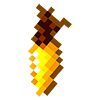
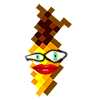
add face for normal carrot

Changed region(s): [[0.24, 0.48, 0.69, 0.75]]

diff --git a/level1.py b/level1.py
@@ -10,7 +10,7 @@ def game_process_level_1(screen):
     tile_width, tile_height = 100, 100
     clock = pygame.time.Clock()
     pygame.display.set_caption("Little Carrot")
-    programIcon = pygame.image.load('data/world_design/characters/gold_carrot.png')
+    programIcon = pygame.image.load('data/world_design/characters/gold_carrot_ok.png')
     pygame.display.set_icon(programIcon)
 
     max_x = 9

diff --git a/level2.py b/level2.py
@@ -13,7 +13,7 @@ def game_process_level_2(screen):
     FPS = 60
     tile_width, tile_height = 100, 100
     clock = pygame.time.Clock()
-    programIcon = pygame.image.load('data/world_design/characters/gold_carrot.png')
+    programIcon = pygame.image.load('data/world_design/characters/gold_carrot_ok.png')
     pygame.display.set_icon(programIcon)
 
     map_filename_1 = 'levels/level2_1.txt'

diff --git a/level3.py b/level3.py
@@ -11,7 +11,7 @@ def game_process_level_3(screen):
     FPS = 60
     tile_width, tile_height = 100, 100
     clock = pygame.time.Clock()
-    programIcon = pygame.image.load('data/world_design/characters/gold_carrot.png')
+    programIcon = pygame.image.load('data/world_design/characters/gold_carrot_ok.png')
     pygame.display.set_icon(programIcon)
 
     map_filename_1 = 'levels/level3_1.txt'

diff --git a/level5.py b/level5.py
@@ -11,7 +11,7 @@ def game_process_level_5(screen):
     tile_width, tile_height = 100, 100
     clock = pygame.time.Clock()
     timer = 0
-    programIcon = pygame.image.load('data/world_design/characters/gold_carrot.png')
+    programIcon = pygame.image.load('data/world_design/characters/gold_carrot_ok.png')
     pygame.display.set_icon(programIcon)
 
     map_filename_1 = 'levels/level5.txt'

diff --git a/level4.py b/level4.py
@@ -9,7 +9,7 @@ def game_process_level_4(screen):
     FPS = 60
     tile_width, tile_height = 100, 100
     clock = pygame.time.Clock()
-    programIcon = pygame.image.load('data/world_design/characters/gold_carrot.png')
+    programIcon = pygame.image.load('data/world_design/characters/gold_carrot_ok.png')
     pygame.display.set_icon(programIcon)
 
     map_filename_1 = 'levels/level4.txt'

diff --git a/game_process.py b/game_process.py
@@ -14,7 +14,7 @@ def init_game():
 
     pygame.init()
     screen = pygame.display.set_mode((1000, 950))
-    programIcon = pygame.image.load('data/world_design/characters/gold_carrot.png')
+    programIcon = pygame.image.load('data/world_design/characters/gold_carrot_ok.png')
     pygame.display.set_icon(programIcon)
 
     pygame.display.set_caption("Little Carrot")
